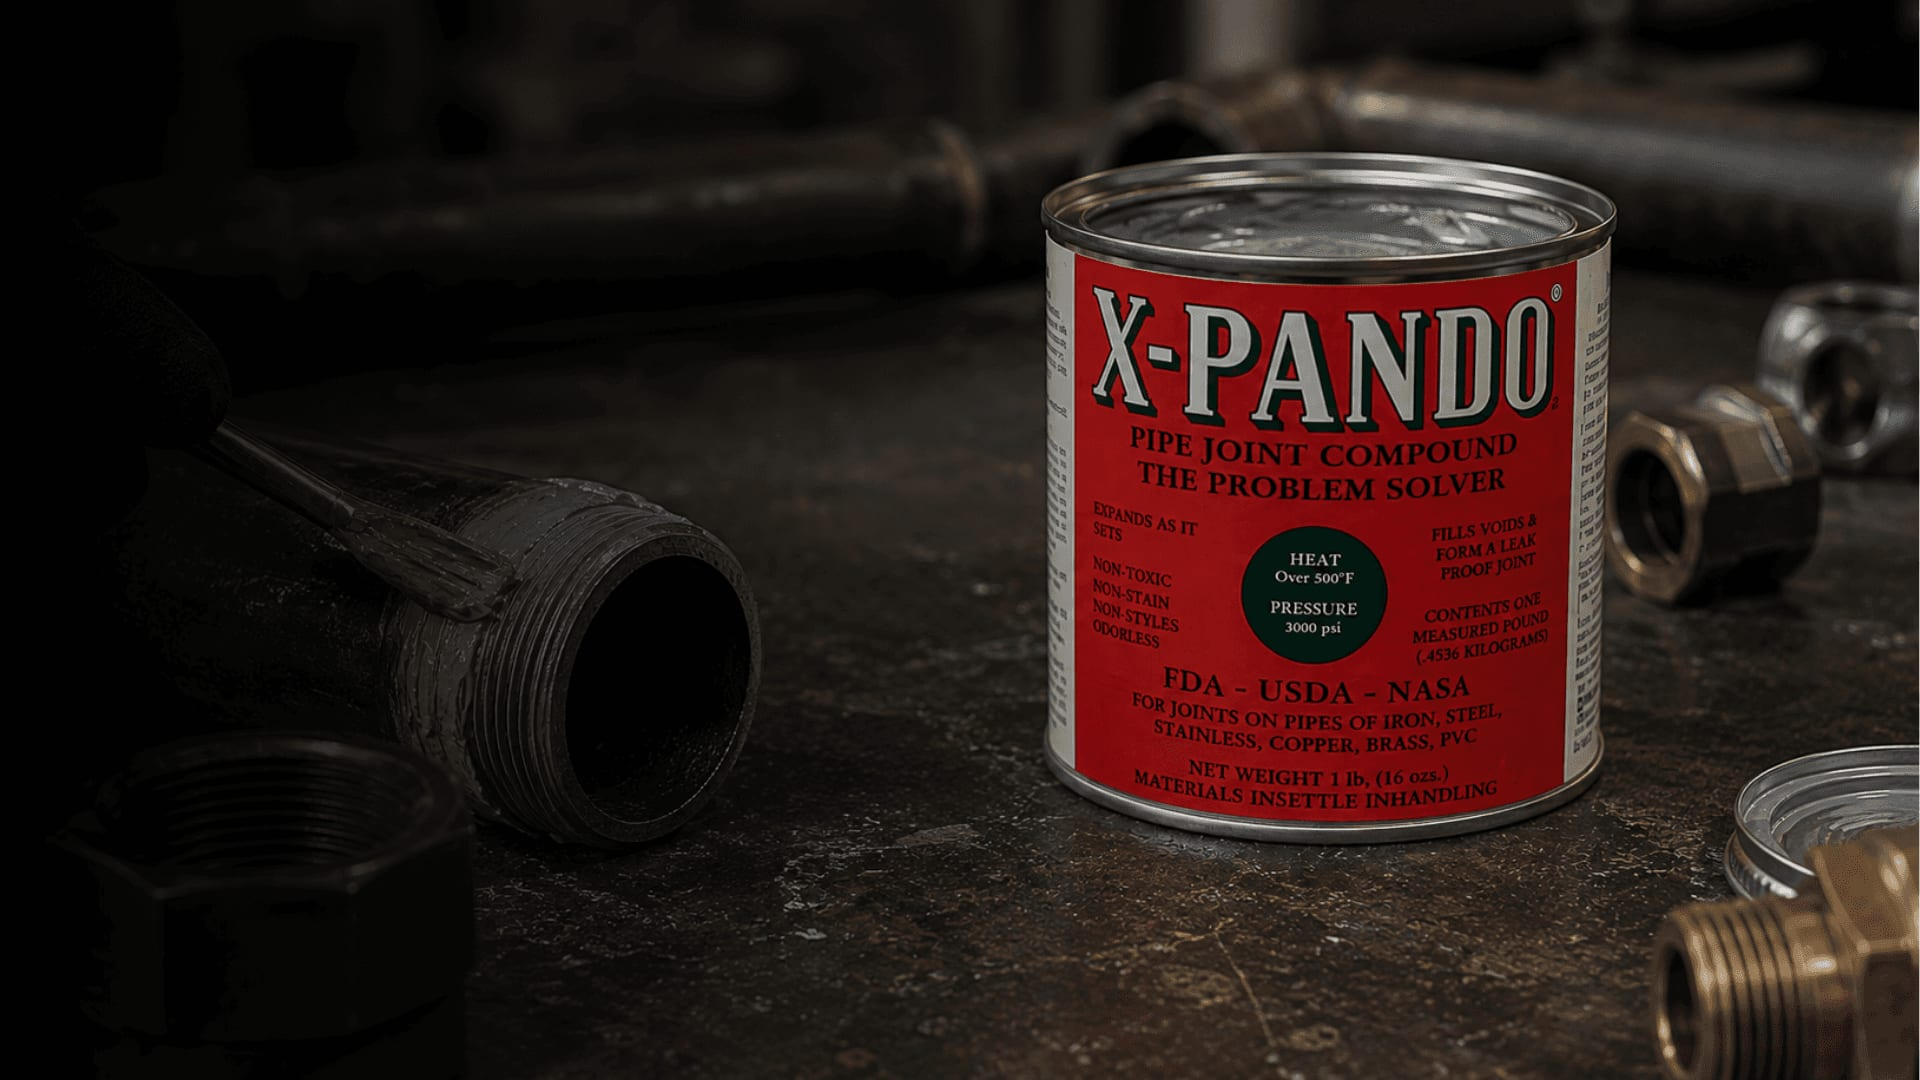
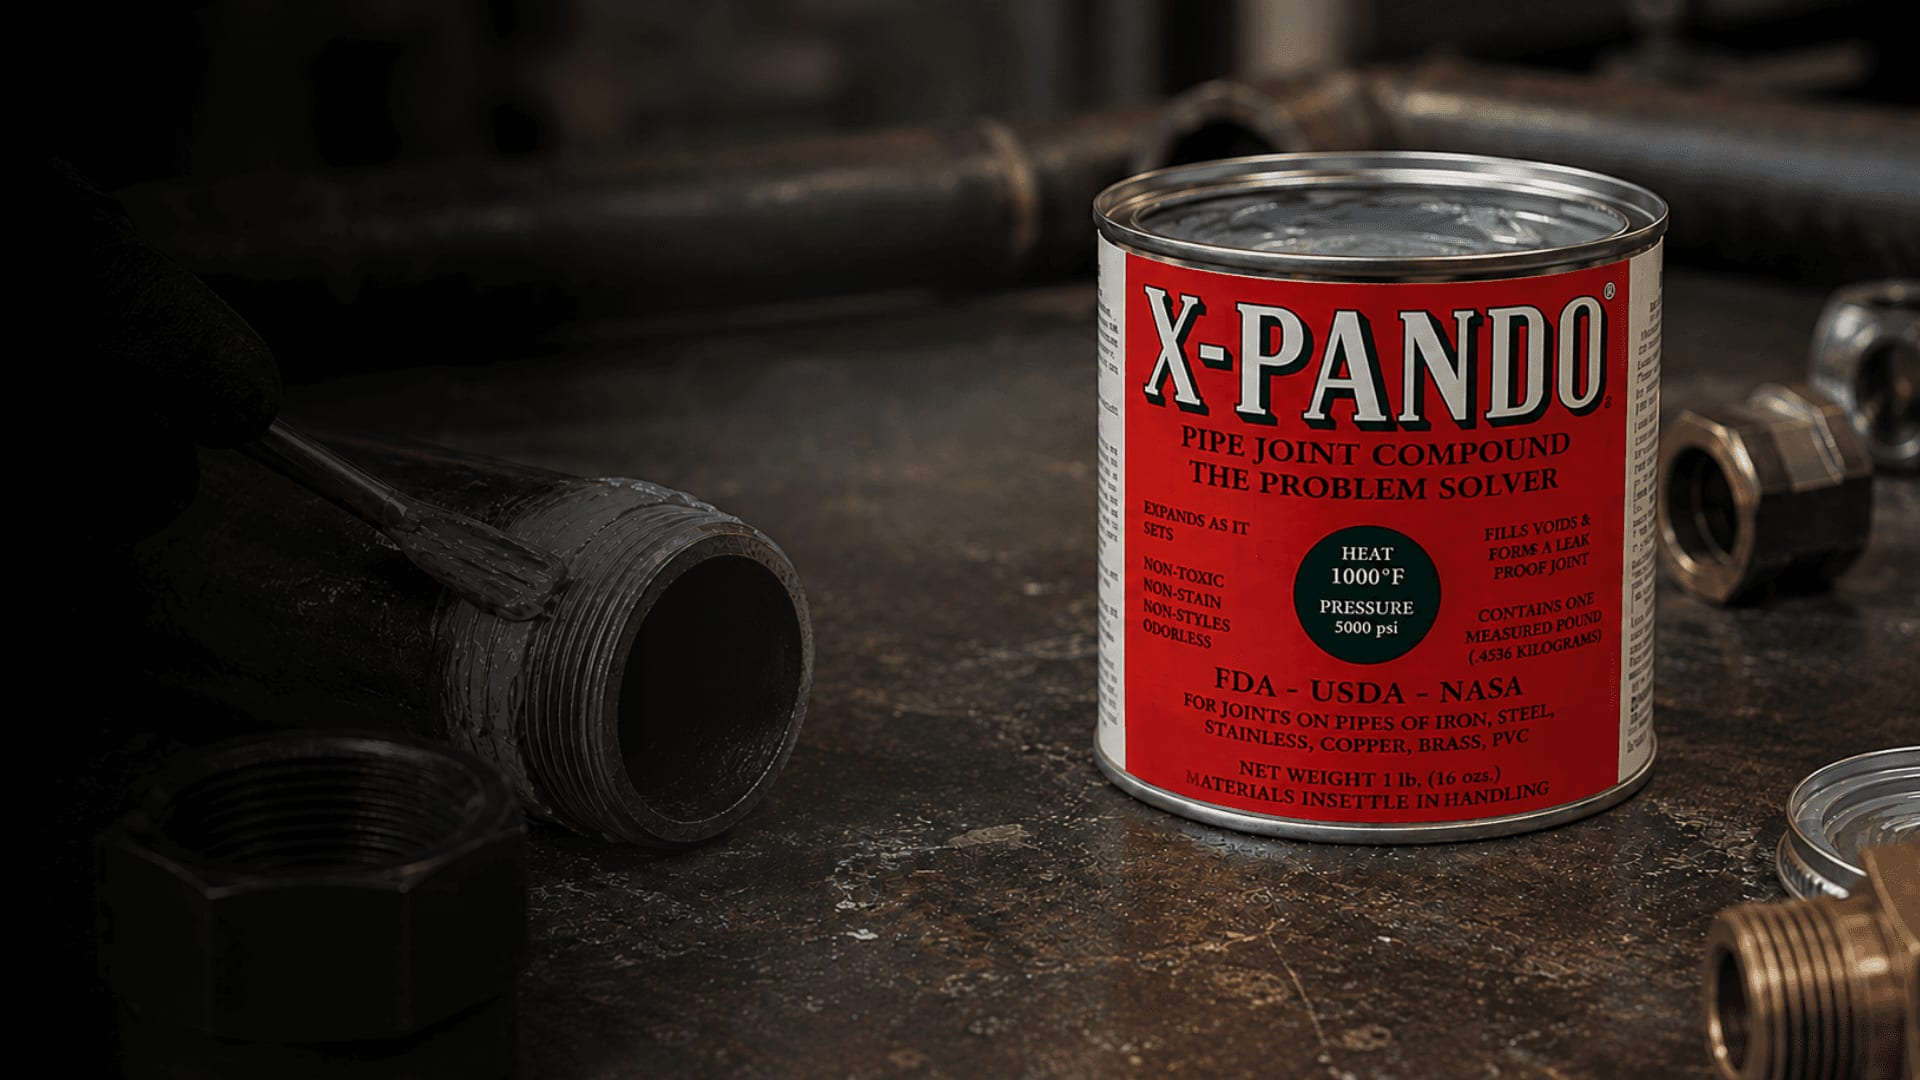
feat: imágenes nuevas de X-Pando con la lata actual
- Portada: la misma escena con la lata actual (1000°F / 5000 psi), que
  reemplaza a la de la etiqueta vieja (500°F / 3000 psi). Va centrada, como
  en Framer.
- Panel de la home: ilustración nueva, con su texto alternativo actualizado.

diff --git a/src/content/images.ts b/src/content/images.ts
@@ -70,7 +70,7 @@ const alts: Localized<Partial<Record<ImageKey, string>>> = {
     servicioValvulas:
       "Esquema isométrico de una calibración de válvulas en la instalación: un bastidor con cilindros hidráulicos montado sobre una válvula de seguridad bridada, conectado a una unidad hidráulica con manómetro y a un monitor que grafica la prueba.",
     servicioXpando:
-      "Esquema isométrico del sistema X-Pando: vista en corte de una unión roscada sellada con cemento expansivo, con detalle ampliado del filete.",
+      "Ilustración de X-Pando: el logo entre un niple roscado y un accesorio en corte con el compuesto aplicado, junto a una lata abierta y un pincel.",
     portadaSellado:
       "Primer plano de una brida empernada sobre una cañería industrial, con el resto de la instalación desenfocada al fondo.",
     portadaValvulas:
@@ -87,7 +87,7 @@ const alts: Localized<Partial<Record<ImageKey, string>>> = {
     servicioValvulas:
       "Isometric diagram of an on-site valve calibration: a frame with hydraulic cylinders mounted on a flanged safety valve, connected to a hydraulic unit with a pressure gauge and to a monitor plotting the test.",
     servicioXpando:
-      "Isometric diagram of the X-Pando system: cutaway view of a threaded joint sealed with expanding cement, with an enlarged detail of the thread.",
+      "X-Pando illustration: the logo between a threaded nipple and a cutaway fitting with the compound applied, next to an open can and a brush.",
     portadaSellado:
       "Close-up of a bolted flange on industrial piping, with the rest of the facility blurred in the background.",
     portadaValvulas:

diff --git a/src/content/servicios/x-pando.ts b/src/content/servicios/x-pando.ts
@@ -38,7 +38,7 @@ const es: Servicio = {
     "Cemento expansivo para uniones industriales que, al mezclarse con agua y curar, genera una expansión leve y permanente que contribuye a obtener conexiones resistentes y herméticas.",
   resumenDestacado: "No sólo rellena. Expande para sellar.",
   portada: images.es.portadaXpando,
-  portadaAjuste: { saturacion: 1, encuadre: "51% 29.1%" },
+  portadaAjuste: { saturacion: 1 },
 
   historia: [
     {
@@ -195,7 +195,7 @@ const en: Servicio = {
     "Expanding cement compound for industrial joints that, when mixed with water and cured, produces slight and permanent expansion, helping create strong and leak-tight connections.",
   resumenDestacado: "It doesn't just fill. It expands to seal.",
   portada: images.en.portadaXpando,
-  portadaAjuste: { saturacion: 1, encuadre: "51% 29.1%" },
+  portadaAjuste: { saturacion: 1 },
 
   historia: [
     {
